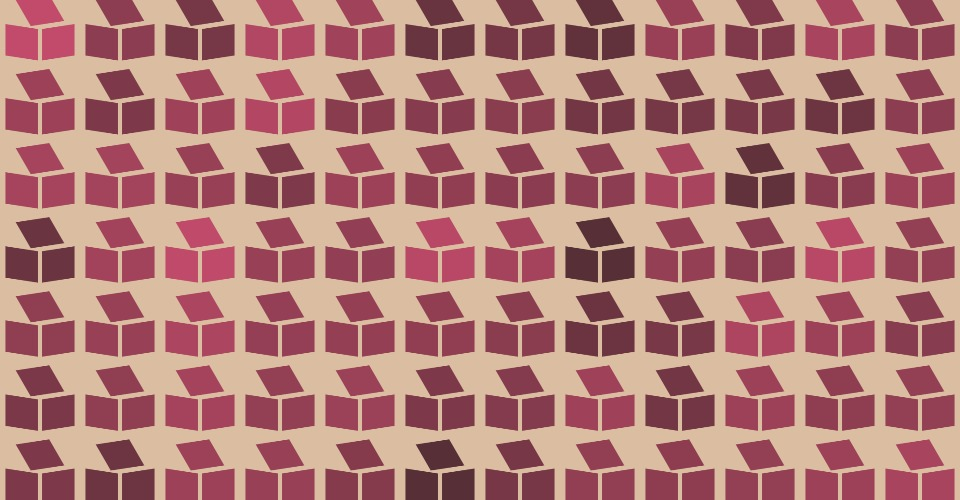
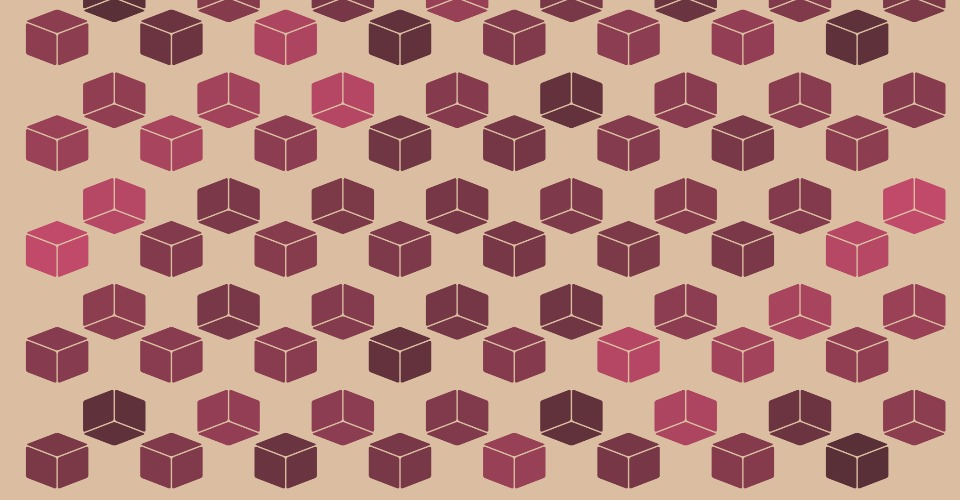
order and layout

diff --git a/draw_one_frame.js b/draw_one_frame.js
@@ -18,16 +18,31 @@ function draw_one_frame(cur_frac) {
 	let mainColor = color("#3F292B"); // brown
 	let backupColor = color("#D34F73"); // blush
 	let DetailColor = color("#DB7F67");
-	
+
+	let orbSize = width / 20;
+	let sqRadius = width / 400;
+	let spacingSize = width / 8.4;
+	let quadPosSize = sqrt(sq(orbSize)/2);
 	
 	let noiseColor;
 	let noiseyColor; 
 	let moveXMap;
 	
+	push();
+	// translate(20,20);
+	drawSquare();
+	pop();
+
+	push();
+	translate(spacingSize*8.5,spacingSize*4.3);
+	rotate(180);
+	drawSquare();
+	pop();
+
+
+	//Draw square to cube function
+	function drawSquare(){
 	
-	let orbSize = width / 20;
-	let spacingSize = width / 12;
-	let quadPosSize = sqrt(sq(orbSize)/2);
 
 
 	//////////////////////////////////////////////
@@ -40,89 +55,106 @@ function draw_one_frame(cur_frac) {
 		noiseyLerp = lerpColor(mainColor,backupColor,noiseColor);  // https://p5js.org/reference/#/p5/lerpColor
 		fill(noiseyLerp);
 
+		//Draw top quad
 		push();
 		rectMode(CENTER);
-		let top_rotQuad = map(cur_frac*2, 0.2,1, -22.5, 0); 
-		let top_rotSquare = map(cur_frac*2, 1,1.8, 0,-22.5);
-		let top_deformQuad = map(cur_frac*2,0.2,1,45,0);
-		let top_deformSquare = map(cur_frac*2,1,1.8,0,45);
-		let top_scaleQuad = map(cur_frac*2,0.2,1,0.5,1);
-		let top_scaleSquare = map(cur_frac*2,1,1.8,1,0.5);
-		let top_posQuad = map(cur_frac*2,0,1,0,orbSize/6);
-		let top_posQSquare = map(cur_frac*2,1,2,orbSize/6,0);
+		let top_rotSquare = map(cur_frac*2, 0.4,1, 0, -22.5); 
+		let top_rotQuad = map(cur_frac*2, 1.4,2, -22.5, 0);
+		let top_deformSquare = map(cur_frac*2,0.4,1,0, 45);
+		let top_deformQuad = map(cur_frac*2,1.4,2,45,0);
+		let top_scaleSquare = map(cur_frac*2,0.4,1,1,0.5);
+		let top_scaleQuad = map(cur_frac*2,1.4,2,0.5,1);
+		let top_posSquare = map(cur_frac*2,0.4,1,orbSize/6,0);
+		let top_posQuad = map(cur_frac*2,1.4,2,0,orbSize/6);
 
 		
 		// ellipse(spacingSize*accross,spacingSize*down ,orbSize)
-		if(cur_frac<=0.1){
-			translate(spacingSize*accross,spacingSize*down-top_posQuad);
+		if(cur_frac<=0.2){
+			translate(spacingSize*accross,spacingSize*down-orbSize/6);
+			rotate(0);
+			shearX(0);
+			scale(1,sqrt(1));
+		} else if(cur_frac>0.2 && cur_frac<=0.5){
+			translate(spacingSize*accross,spacingSize*down-top_posSquare);
+			rotate(top_rotSquare);
+			shearX(top_deformSquare);
+			scale(1,sqrt(top_scaleSquare));
+		} else if(cur_frac>0.5 && cur_frac<=0.7){
+			translate(spacingSize*accross,spacingSize*down);
 			rotate(-22.5);
 			shearX(45);
 			scale(1,sqrt(0.5));
-		} else if(cur_frac>0.1 && cur_frac<=0.5){
+		} else if(cur_frac>0.7){
 			translate(spacingSize*accross,spacingSize*down-top_posQuad);
 			rotate(top_rotQuad);
 			shearX(top_deformQuad);
 			scale(1,sqrt(top_scaleQuad));
-		} else if(cur_frac>0.5 && cur_frac<=0.9){
-			translate(spacingSize*accross,spacingSize*down-top_posQSquare);
-			rotate(top_rotSquare);
-			shearX(top_deformSquare);
-			scale(1,sqrt(top_scaleSquare));
-		} else if(cur_frac>0.9){
-			translate(spacingSize*accross,spacingSize*down-top_posQuad);
-			rotate(0);
-			shearX(0);
-			scale(1,sqrt(1));
 		}
 			
-		square(0,0,quadPosSize);
+		square(0,0,quadPosSize,sqRadius);
 
 		pop();
-
+///////////////////////////////////////
+		//Draw left quad
 		push();
 		rectMode(CENTER);
-		let left_deformQuad = map(cur_frac*2,0,1,22.5,0);
-		let left_deformSquare = map(cur_frac*2,1,2,0,22.5);
-		let left_scaleQuad = map(cur_frac*2,0,1,0.9,1);
-		let left_scaleSquare = map(cur_frac*2,1,2,1,0.9);
+		let left_deformSquare = map(cur_frac*2,0,1,0,22.5);
+		let left_deformQuad = map(cur_frac*2,1,2,22.5,0);
+		let left_scaleSquare = map(cur_frac*2,0,1,1,0.9);
+		let left_scaleQuad = map(cur_frac*2,1,2,0.9,1);
 		
-		if(cur_frac<=0.5){
-			translate(spacingSize*accross-quadPosSize*0.47-top_posQuad/2,spacingSize*down+orbSize*0.52+top_posQuad);
-			// rotate(-22.5);
-			shearY(left_deformQuad);
-			scale(left_scaleQuad,1);
-		} else{
-			translate(spacingSize*accross-quadPosSize*0.47-top_posQSquare/2,spacingSize*down+orbSize*0.52+top_posQSquare);
+		if(cur_frac<=0.2){
+			translate(spacingSize*accross-quadPosSize*0.47-orbSize/12,spacingSize*down+orbSize*0.52+orbSize/6);
+			shearY(0);
+			scale(1,1);
+		} else if(cur_frac>0.2 && cur_frac<=0.5){
+			translate(spacingSize*accross-quadPosSize*0.47-top_posSquare/2,spacingSize*down+orbSize*0.52+top_posSquare);
 			shearY(left_deformSquare);
 			scale(left_scaleSquare,1);
+		} else if(cur_frac>0.5 && cur_frac<=0.7){
+			translate(spacingSize*accross-quadPosSize*0.47,spacingSize*down+orbSize*0.52);
+			shearY(22.5);
+			scale(0.9,1);
+		} else if(cur_frac>0.7){
+			translate(spacingSize*accross-quadPosSize*0.47-top_posQuad/2,spacingSize*down+orbSize*0.52+top_posQuad);
+			shearY(left_deformQuad);
+			scale(left_scaleQuad,1);
 		}
 	
-		square(0,0,quadPosSize);
+		square(0,0,quadPosSize,sqRadius);
 
 		pop();
-
+///////////////////////////////////////
+		//Draw right quad
 		push();
 		rectMode(CENTER);
-		let right_deformQuad = map(cur_frac*2,0,1,-22.5,0);
-		let right_deformSquare = map(cur_frac*2,1,2,0,-22.5);
-		let right_scaleQuad = map(cur_frac*2,0,1,0.9,1);
-		let right_scaleSquare = map(cur_frac*2,1,2,1,0.9);
+		let right_deformSquare = map(cur_frac*2,0,1,0,-22.5);
+		let right_deformQuad = map(cur_frac*2,1,2,-22.5,0);
+		let right_scaleSquare = map(cur_frac*2,0,1,1,0.9);
+		let right_scaleQuad = map(cur_frac*2,1,2,0.9,1);
 		
-		if(cur_frac<=0.5){
-			translate(spacingSize*accross+quadPosSize*0.47+top_posQuad/2,spacingSize*down+orbSize*0.52+top_posQuad);
-			// rotate(-22.5);
-			shearY(right_deformQuad);
-			scale(right_scaleQuad,1);
-		} else{
-			translate(spacingSize*accross+quadPosSize*0.47+top_posQSquare/2,spacingSize*down+orbSize*0.52+top_posQSquare);
+		if(cur_frac<=0.2){
+			translate(spacingSize*accross+quadPosSize*0.47+orbSize/12,spacingSize*down+orbSize*0.52+orbSize/6);
+			shearY(0);
+			scale(1,1);
+		} else if(cur_frac>0.2 && cur_frac<=0.5){
+			translate(spacingSize*accross+quadPosSize*0.47+top_posSquare/2,spacingSize*down+orbSize*0.52+top_posSquare);
 			shearY(right_deformSquare);
 			scale(right_scaleSquare,1);
+		} else if(cur_frac>0.5 && cur_frac<=0.7){
+			translate(spacingSize*accross+quadPosSize*0.47+0,spacingSize*down+orbSize*0.52+0);
+			shearY(-22.5);
+			scale(0.9,1);
+		} else if(cur_frac>0.7){
+			translate(spacingSize*accross+quadPosSize*0.47+top_posQuad/2,spacingSize*down+orbSize*0.52+top_posQuad);
+			shearY(right_deformQuad);
+			scale(right_scaleQuad,1);
 		}
 	
-		square(0,0,quadPosSize);
+		square(0,0,quadPosSize,sqRadius);
 
 		pop();
-
+/////////////////////////////////////////
 
 			// if(cur_frac > 0.3 && noiseColor < 0.3){
 			// 	fill(225)
@@ -134,6 +166,7 @@ function draw_one_frame(cur_frac) {
 	}
 	
 	}
+}
 
 
 

diff --git a/README.md b/README.md
@@ -1,3 +1,4 @@
 [![Open in Visual Studio Code](https://classroom.github.com/assets/open-in-vscode-c66648af7eb3fe8bc4f294546bfd86ef473780cde1dea487d3c4ff354943c9ae.svg)](https://classroom.github.com/online_ide?assignment_repo_id=10300841&assignment_repo_type=AssignmentRepo)
 ### 2023 MDDN342 Project 1: Parameterised Space
-Now the shapes can change between 'quad' and 'square' along with 'cur_frac', it's kind of what I want at the beginning. The problem is that they are changing too fast, I'll make them slow down.
+I've changed the transform order (from square to cube), added pause when the shapes are in square and cube to emphasize the 2D to 3D feel, also added radius to the sqares to make them look smoother.
+I've put the shpaes drawing into a function, so I can manipulate the layout of these shapes.
